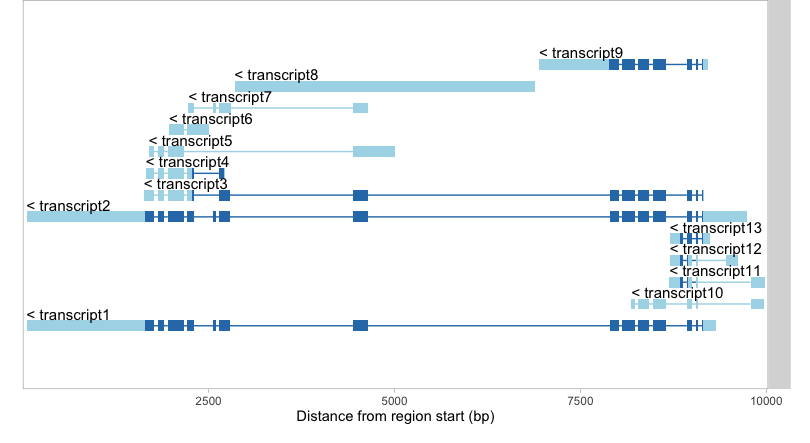
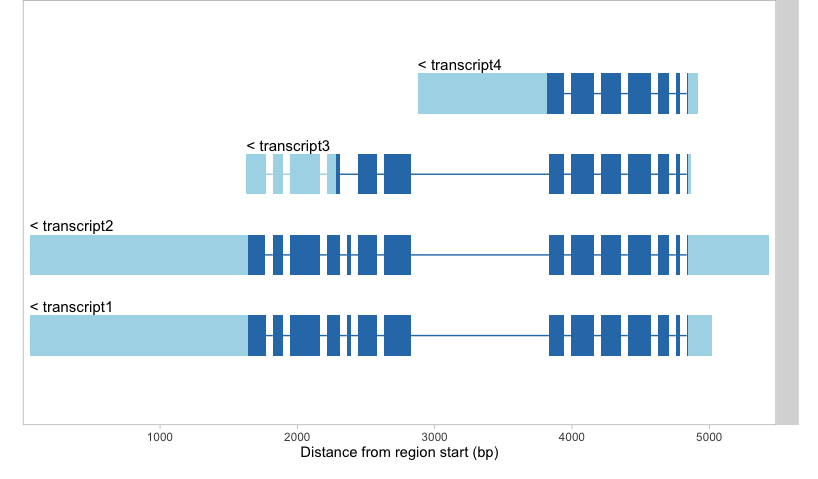
Reduced number of sample transcripts in example

diff --git a/README.md b/README.md
@@ -12,12 +12,12 @@ from high-throughput RNA-seq experiments
 * Scans for NMD-inducing features on coding RNAs from various sources:
   * Most transcript annotation databases
   * Custom transcript annotation (GTF) generated from RNA-seq experiemnts
-* Predict coding region (CDS) on custom-generated GTF annotation using reference CDS as guide
-* Match chromosome levels and gene_id levels between query and reference GRanges object
-* Resize start and end of GRanges object containing exons of transcripts
+* Predicts coding region (CDS) on custom-generated GTF annotation using reference CDS as guide
+* Matches chromosome levels and gene_id levels between query and reference GRanges object
+* Resizes start and end of transcript-organized GRanges object
 * *In development*
-  * Analyze alternative segments between query and reference transcripts
-  * Analyze uORFs and uATGs on a list of coding mRNAs
+  * *Analyze alternative segments between query and reference transcripts*
+  * *Analyze uORFs and uATGs on a list of coding mRNAs*
 
 
 
@@ -29,18 +29,9 @@ devtools::install_github("fursham-h/ponder")
 
 ## Usage
 pondeR is pre-loaded with GenomicRangesList objects containing sample
-exon and cds ranges from 13 transcripts from a gene.
+exon and cds ranges
 ```r
 library(pondeR)
-
-names(query_exons)
-#[1] "transcript1"  "transcript10" "transcript11" "transcript12" "transcript13" 
-#[6] "transcript2"  "transcript3" "transcript4"  "transcript5"  "transcript6"  
-#[11] "transcript7"  "transcript8"  "transcript9" 
-
-names(query_cds)
-#[1] "transcript1"  "transcript11" "transcript12" "transcript13" "transcript2"  
-#[6] "transcript3"  "transcript4" "transcript9" 
 
 query_exons[1]
 # GRangesList object of length 1:
@@ -64,7 +55,7 @@ query_exons[1]
 # seqinfo: 1 sequence from an unspecified genome; no seqlengths
 ```
 
-Transcripts without cds information can be part of a GRangesList but will not
+Transcripts without cds information can be a part of the GRangesList but will not
 be analysed for NMD-inducing features. Transcript architecture of these 
 transcripts can be visualized using _wiggleplotr_ package
 ```r
@@ -84,6 +75,5 @@ predictNMD(query_exons, query_cds)
 #  tx          is_NMD dist_to_lastEJ num_of_down_EJs dist_to_downEJs threeUTRlength
 #  <chr>       <lgl>           <int>           <dbl> <chr>                    <dbl>
 #1 transcript3 TRUE              361               3 66,283,361                 502
-#2 transcript4 TRUE              361               3 66,283,361                 474
 ```
 
